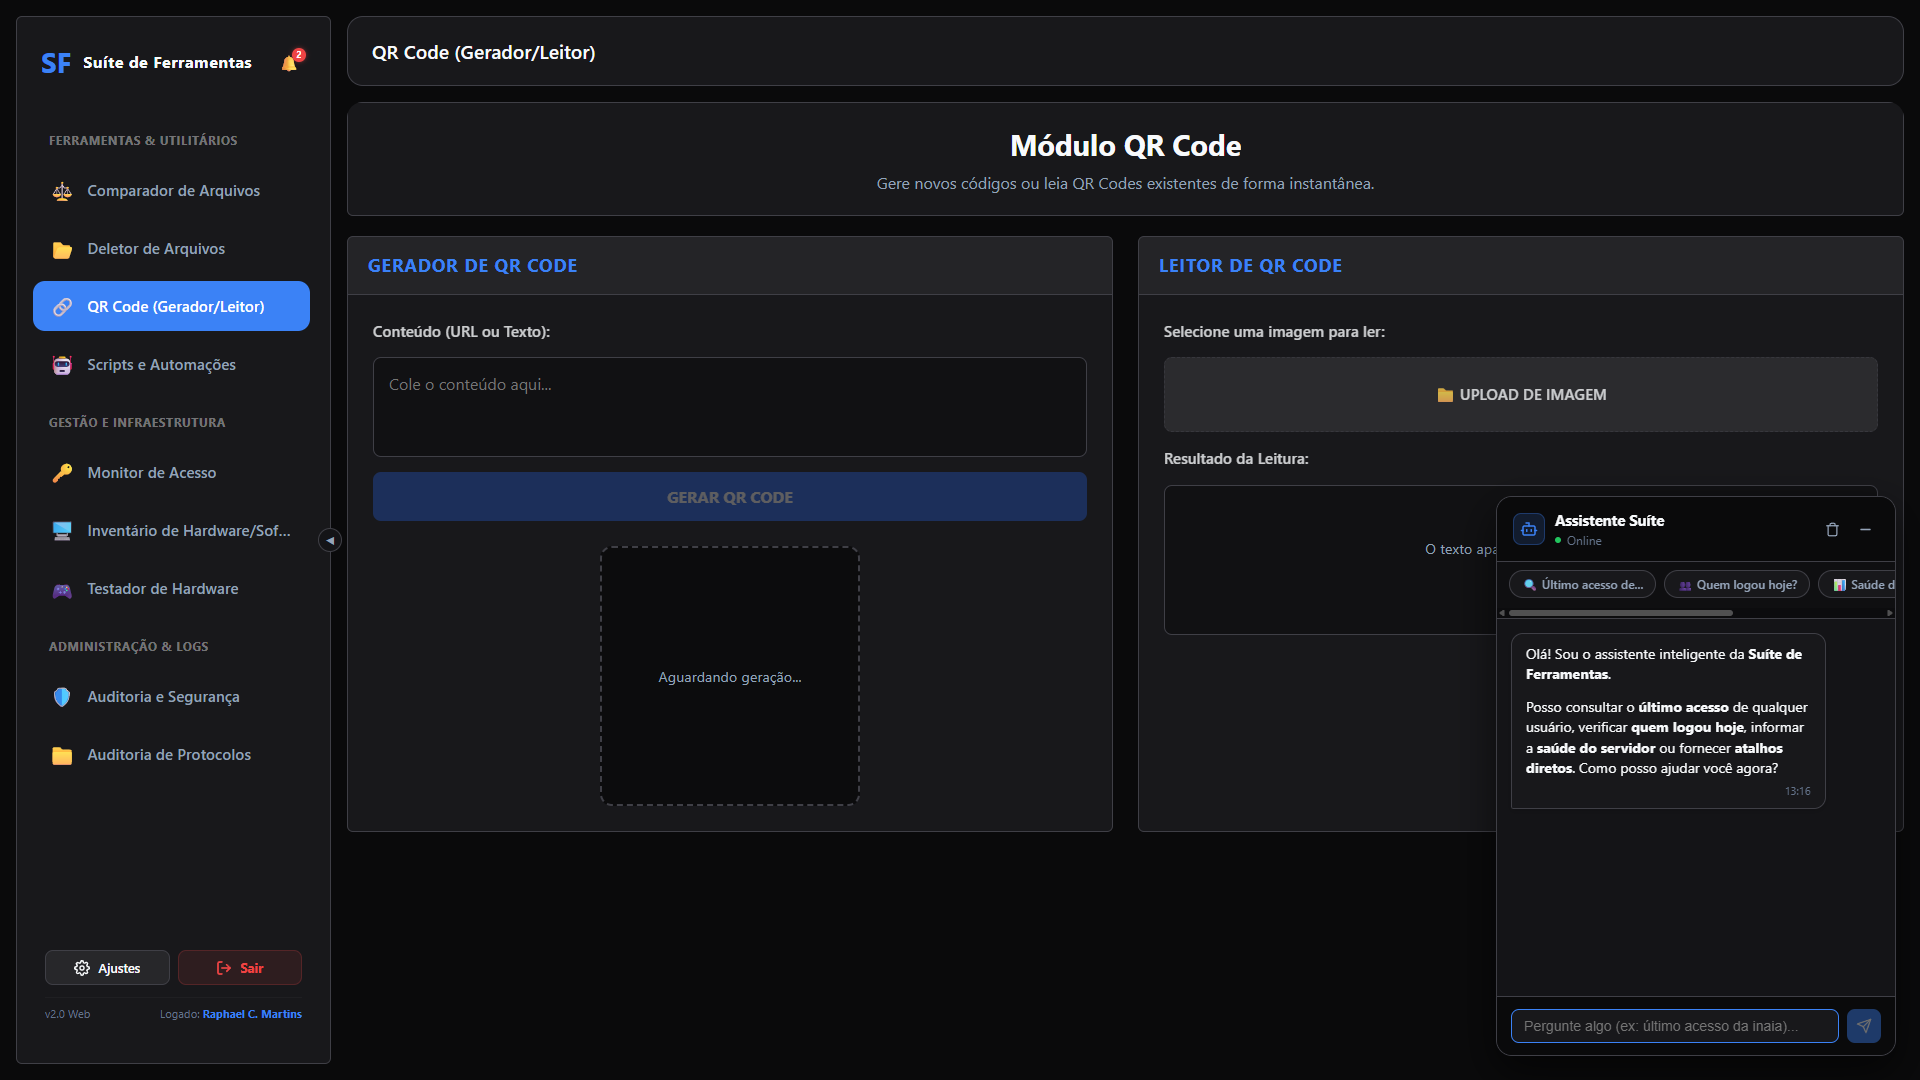
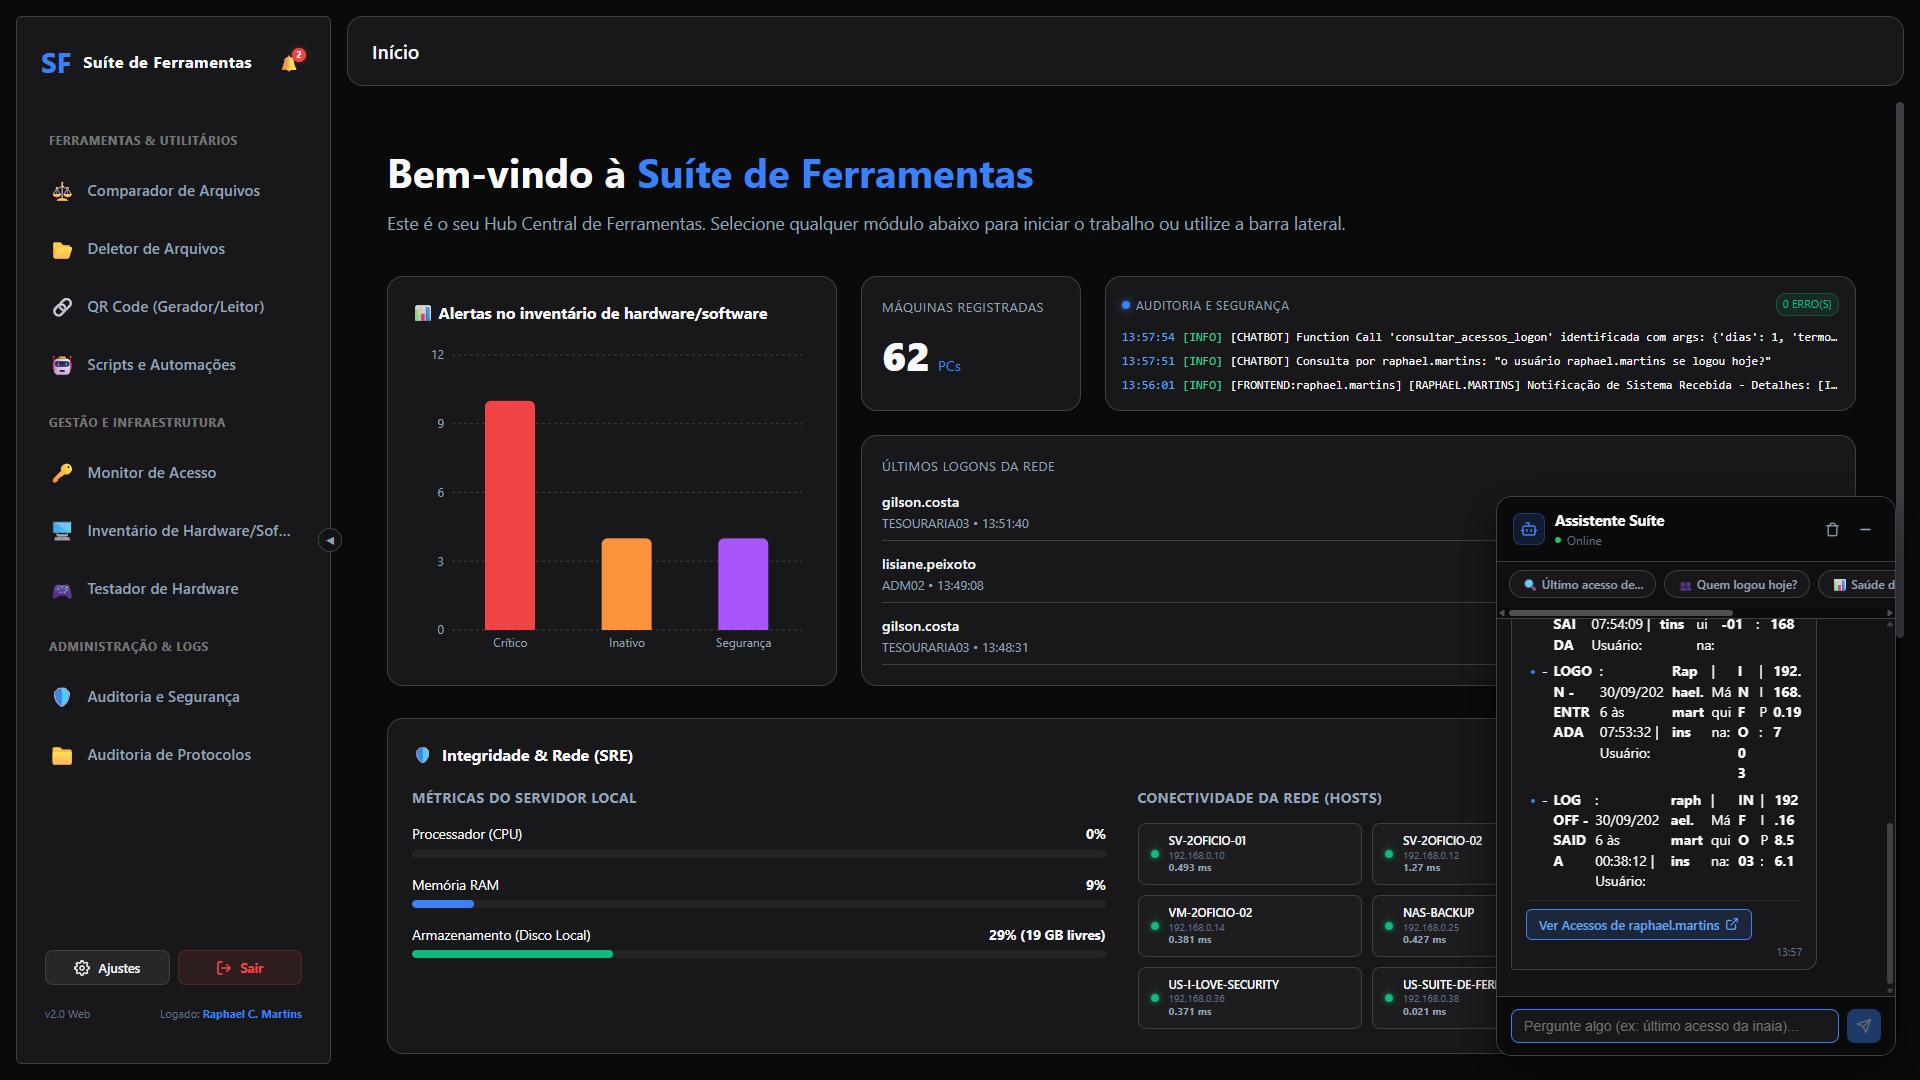
feat(suite): destacar bot assistente operacional estilo jarvis e expandir galeria para 12 telas

diff --git a/index.html b/index.html
@@ -844,15 +844,17 @@
             <span class="badge-status"><i class="fa-solid fa-building"></i> Em Produção</span>
           </div>
           <h3 class="project-title">Suíte de Ferramentas Web (Hub Operacional)</h3>
-          <p class="project-subtitle">Hub Central SRE, Active Directory & Orquestração Multi-Sistemas</p>
+          <p class="project-subtitle">Hub Central SRE, Active Directory & Assistente Operacional Inteligente</p>
           <p class="project-desc">
-            Plataforma corporativa full-stack de alta criticidade projetada para centralizar a governança de TI e operações do 2º Ofício de Itaboraí.
-            Opera como um ecossistema integrado que dialoga simultaneamente com servidores Windows Server (Active Directory para logons/SACLs),
-            cluster Proxmox VE (Debian/VMs), storage corporativo NAS via SMB/NFS, telemetria contínua de 62 estações de trabalho e motor
-            assíncrono para processamento e auditoria em lote de documentos cartorários (.TIFF/PDF).
+            Plataforma corporativa de alta criticidade construída para orquestrar as operações do 2º Ofício de Itaboraí.
+            Integra simultaneamente servidores Windows Server (Active Directory para logons/SACLs), cluster Proxmox VE, storage NAS
+            via SMB/NFS e telemetria contínua de 62 computadores. Conta com um <strong>Assistente Virtual integrado (estilo "Jarvis")</strong>
+            que processa consultas em linguagem natural em tempo real (ex: checar se determinado colaborador logou hoje, investigar
+            saúde de servidores ou disparar diagnósticos instantâneos) e motor de alta velocidade para documentos pesados (.TIFF/PDF).
           </p>
           <div class="project-tags">
             <span class="tag--highlight">React + FastAPI</span>
+            <span class="tag--highlight">Bot Assistente IA ("Jarvis")</span>
             <span>Active Directory & SACL</span>
             <span>Cluster Proxmox VE</span>
             <span>Auditoria Contínua 24/7</span>
@@ -862,8 +864,8 @@
           </div>
           <div class="card-actions">
             <button class="btn btn--outline btn-cert"
-              data-gallery="imgs/projetos/suite1.png,imgs/projetos/suite2.png,imgs/projetos/suite3.png,imgs/projetos/suite4.png,imgs/projetos/suite5.png,imgs/projetos/suite6.png,imgs/projetos/suite7.png,imgs/projetos/suite8.png,imgs/projetos/suite9.png,imgs/projetos/suite10.png,imgs/projetos/suite11.png">
-              <i class="fa-solid fa-images"></i> Visualizar Galeria do Sistema (11 Telas)
+              data-gallery="imgs/projetos/suite1.png,imgs/projetos/suite2.png,imgs/projetos/suite3.png,imgs/projetos/suite4.png,imgs/projetos/suite5.png,imgs/projetos/suite6.png,imgs/projetos/suite7.png,imgs/projetos/suite8.png,imgs/projetos/suite9.png,imgs/projetos/suite10.png,imgs/projetos/suite11.png,imgs/projetos/suite12.png">
+              <i class="fa-solid fa-images"></i> Visualizar Galeria do Sistema (12 Telas)
             </button>
           </div>
         </article>

diff --git a/HISTORICO.md b/HISTORICO.md
@@ -181,6 +181,23 @@ Este documento atua como diário de bordo e central de auditoria arquitetural do
 
 ---
 
+### [2026-09-30] - Destaque do Bot Assistente Operacional IA ("Jarvis") & Expansão da Galeria para 12 Telas
+- **Decisão:** Destaque arquitetural de primeiro nível para o **Bot Assistente Virtual Inteligente (estilo "Jarvis")** integrado à Suíte de Ferramentas Web, com captura de prints reais em conversação viva (`suite11.png` e `suite12.png`), enriquecimento do texto do card no portfólio e expansão da galeria para 12 telas.
+- **Racional:** O assistente operacional opera como um copiloto autônomo (análogo ao Jarvis do Homem de Ferro), permitindo que a equipe de suporte e infraestrutura faça perguntas diretas em linguagem natural via chat modal. O bot consome em tempo real as APIs de telemetria e o histórico de eventos do Active Directory/SRE, entregando diagnósticos imediatos com botões de ação interativos dentro das mensagens, sem necessidade de navegar manualmente por múltiplos dashboards.
+- **Execução:**
+  - **Interação Viva e Capturas em Alta Resolução:**
+    - `suite11.png`: Demonstração de pergunta em linguagem natural (*"o usuário raphael.martins se logou hoje?"*), com retorno analítico instantâneo do assistente listando as estações acessadas (`SV-2OFICIO-01`, `INFO03`), horários exatos, IPs e botão de atalho `[Ver Acessos de raphael.martins]`.
+    - `suite12.png`: Consulta rápida de diagnóstico sistêmico (*"Saúde do Servidor"*), com retorno detalhado da telemetria (9 hosts online, 0 offline, status dos daemons de Ping Monitor, Discos e Auditoria 24/7 ativos) e atalho `[Ver Saúde dos Servidores]`.
+  - **Refinamento no Portfólio (`index.html`):**
+    - Subtítulo ajustado para: *Hub Central SRE, Active Directory & Assistente Operacional Inteligente*.
+    - Descrição atualizada ressaltando o papel do Assistente Virtual integrado estilo "Jarvis" na tomada de decisões e suporte diário.
+    - Nova tag com destaque visual: `<span class="tag--highlight">Bot Assistente IA ("Jarvis")</span>`.
+    - Galeria modal ampliada para 12 imagens (`suite1.png` até `suite12.png`) com contador `(12 Telas)`.
+  - **Documentação de Projeto (`README.md`):** Tabela de vitrine atualizada com o Bot Assistente IA e a nova contagem de telas.
+  - **Telemetria de QA & Sincronização Google Sheets (`/qa-sheets-sync`):** Bateria de testes do Assistente Jarvis persistida na planilha central *playwright-qa-testes* na aba `suite-de-ferramentas` (ID da Execução `RUN-20260930-140414`, cenários `TC-JARVIS-01` e `TC-JARVIS-02` PASSED com validação de resposta estruturada e HTTP 200).
+
+---
+
 ## 🔒 Diretrizes Mandatórias de Preservação e Integridade
 > **Aviso Permanente:** É expressamente proibido a qualquer agente ou desenvolvedor apagar, truncar ou resetar bancos de dados locais/remotos e diretórios de logs persistentes em qualquer rotina de manutenção. Modificações devem ocorrer sempre de forma incremental, reversível e protegida por controle de versão.
 

diff --git a/README.md b/README.md
@@ -36,7 +36,7 @@ O projeto foi inteiramente construído em **Vanilla Puro (HTML5 + CSS3 + JavaScr
 |---|---|---|---|
 | **How To Complete Dex** | Web Application | React 19, TypeScript, Vite, Tailwind v4, Zustand, Supabase | [Online 🟢](https://how-to-complete-dex.vercel.app) |
 | **BugSync Bot** | QA & Confiabilidade | Python, discord.py, Google Sheets API, Apps Script Webhooks | Ativo ⚡ |
-| **Suíte de Ferramentas Web** | Ferramenta Corporativa | React, FastAPI, Active Directory, Proxmox VE, Storage NAS, SRE | Em Produção 🏢 (11 Telas) |
+| **Suíte de Ferramentas Web** | Ferramenta Corporativa | React, FastAPI, Bot Assistente IA ("Jarvis"), Active Directory, Proxmox VE, Storage NAS, SRE | Em Produção 🏢 (12 Telas) |
 | **DevPad** | Web Application | Next.js 16, TypeScript, Prisma ORM, Supabase RLS, TipTap | Open Source 📦 |
 | **FrameStudio PRO** | Desktop & Mídia | Python, OpenCV, PyAV (FFmpeg), Canvas RGB, RAM Cache | Open Source 📦 |
 | **MediaDownloader Pro** | Full-Stack / Utilitário | FastAPI, Vanilla JS SPA, SSE em tempo real, yt-dlp, SQLite | Open Source 📦 |
